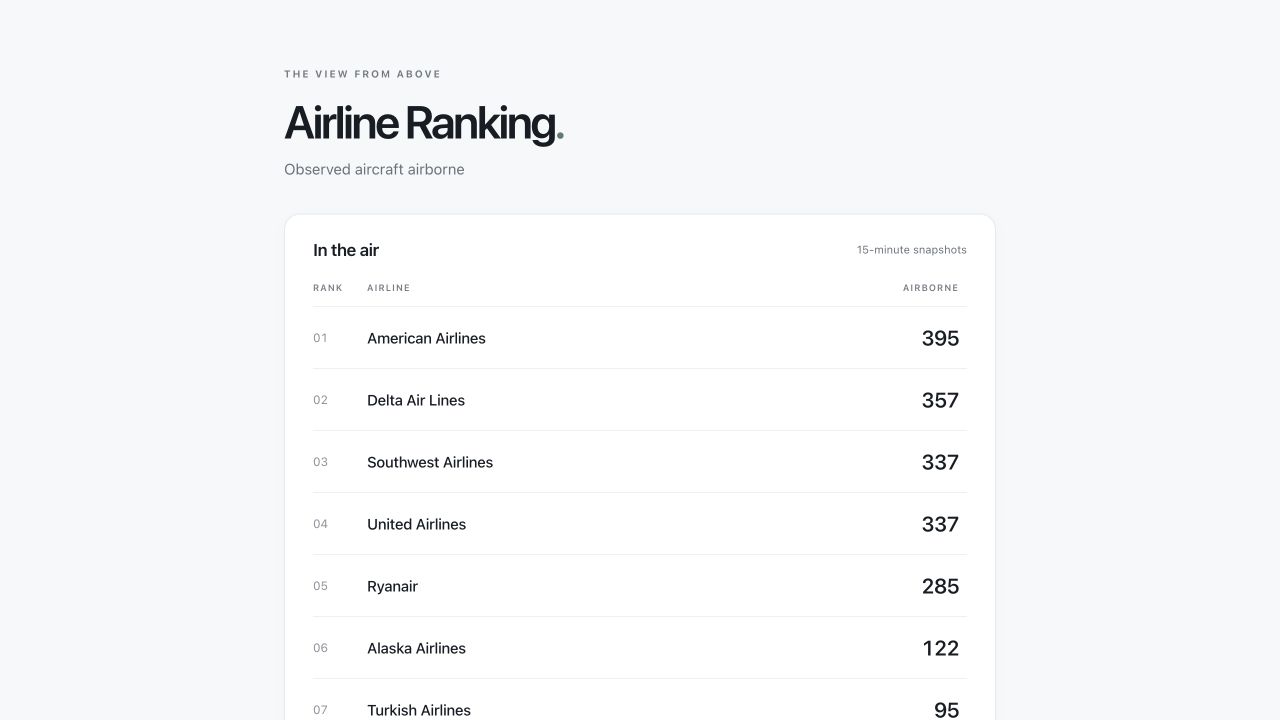
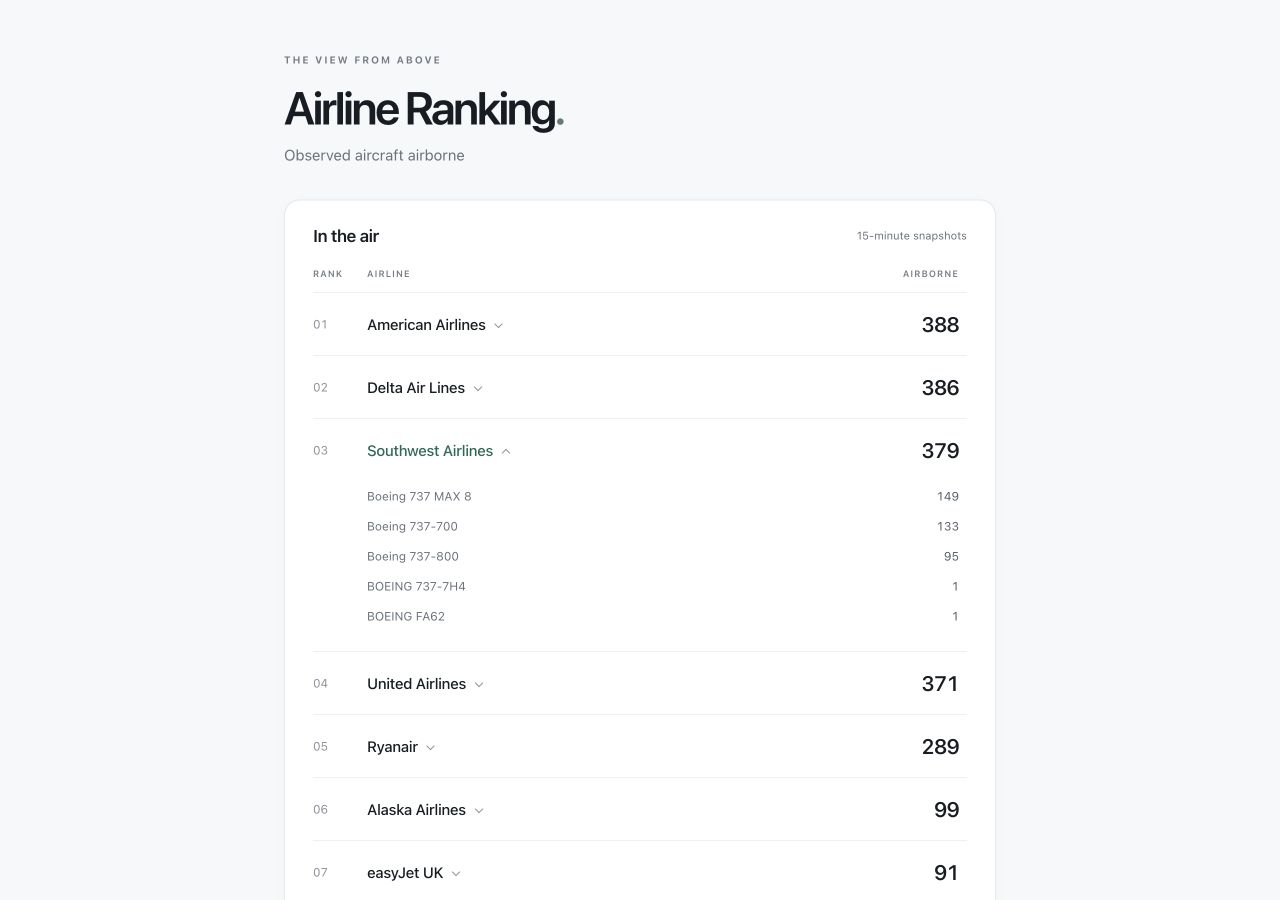
Add expandable aircraft-type breakdowns (#5)
* Add expandable aircraft-type breakdowns

* Update the leaderboard preview with aircraft details

* Prioritize readability in project guidelines

diff --git a/src/styles.css b/src/styles.css
@@ -11,11 +11,11 @@ h1 { font-size: clamp(32px, 6vw, 46px); line-height: 1.12; letter-spacing: -.055
 .board-heading { display: flex; align-items: center; justify-content: space-between; padding: 25px 28px 23px; }
 h2 { margin: 0; font-size: 17px; font-weight: 600; letter-spacing: -.02em; }
 .refresh-label { font-size: 11px; color: #69717c; }
-.column-headings, li { display: grid; grid-template-columns: 54px minmax(0, 1fr) 100px; align-items: center; }
+.column-headings, .airline-toggle { display: grid; grid-template-columns: 54px minmax(0, 1fr) 100px; align-items: center; }
 .column-headings { padding: 0 28px 13px; color: #777e87; font-size: 9px; letter-spacing: .11em; font-weight: 600; }
 .column-headings > :last-child { text-align: right; padding-right: 8px; }
 ol { list-style: none; padding: 0 28px; margin: 0; }
-li { position: relative; min-height: 62px; border-top: 1px solid #eef0f2; background: white; }
+li { position: relative; border-top: 1px solid #eef0f2; background: white; }
 .rank { color: #8a919a; font-size: 12px; font-variant-numeric: tabular-nums; }
 .airline-name { font-size: 15px; font-weight: 500; letter-spacing: -.015em; padding: 12px 8px 12px 0; }
 .count { justify-self: end; font-size: 21px; line-height: 1.5; font-weight: 550; letter-spacing: -.025em; font-variant-numeric: tabular-nums; padding: 2px 8px; border-radius: 5px; }
@@ -31,8 +31,31 @@ time { color: #535b65; }
   .board-heading { padding: 21px 17px; }
   .column-headings { padding: 0 17px 12px; }
   ol { padding: 0 17px; }
-  .column-headings, li { grid-template-columns: 36px minmax(0, 1fr) 76px; }
+  .column-headings, .airline-toggle { grid-template-columns: 36px minmax(0, 1fr) 76px; }
   .airline-name { font-size: 13px; }
   .count { font-size: 19px; }
   .board-footer { padding: 15px 17px; flex-wrap: wrap; }
+}
+
+.airline-toggle { width: 100%; min-height: 62px; padding: 0; border: 0; background: transparent; color: inherit; font: inherit; text-align: left; cursor: pointer; }
+.airline-toggle:hover .airline-name { color: #176957; }
+.airline-toggle:focus-visible { outline: 2px solid #617a70; outline-offset: 2px; border-radius: 4px; }
+.chevron { display: inline-block; width: 6px; height: 6px; margin: 0 0 3px 10px; border-right: 1px solid #8a919a; border-bottom: 1px solid #8a919a; transform: rotate(45deg); transition: transform 180ms ease; }
+[aria-expanded="true"] .chevron { transform: rotate(225deg); margin-bottom: 0; }
+.aircraft-details { display: grid; grid-template-rows: 1fr; }
+.details-content { min-height: 0; overflow: hidden; }
+.aircraft-details dl { margin: 0 8px 20px 54px; }
+.aircraft-type { display: grid; grid-template-columns: minmax(0, 1fr) auto; gap: 16px; padding: 6px 0; color: #69717c; font-size: 12px; line-height: 1.5; }
+.aircraft-type dt { overflow-wrap: anywhere; }
+.aircraft-type dd { margin: 0; font-variant-numeric: tabular-nums; color: #535b65; }
+.no-aircraft { margin: 0 8px 20px 54px; color: #69717c; font-size: 12px; line-height: 1.5; }
+.details-enter { animation: reveal-details 200ms ease-out; }
+.details-leave { animation: reveal-details 200ms ease-in reverse; }
+@keyframes reveal-details { from { grid-template-rows: 0fr; opacity: 0; } to { grid-template-rows: 1fr; opacity: 1; } }
+@media (max-width: 480px) {
+  .aircraft-details dl, .no-aircraft { margin-left: 36px; }
+}
+@media (prefers-reduced-motion: reduce) {
+  .chevron { transition: none; }
+  .details-enter, .details-leave { animation: none; }
 }

diff --git a/backend/skylink.ts b/backend/skylink.ts
@@ -1,4 +1,5 @@
 import type { Snapshot } from '../shared/ranking.ts';
+import { aircraftTypeName } from './aircraft-types.ts';
 import { airlines } from './airlines.ts';
 
 export const REFRESH_INTERVAL_MS = 15 * 60 * 1000;
@@ -29,7 +30,7 @@ export function countAircraft(payload: unknown, now = Date.now()): Snapshot {
     throw new Error('SkyLink snapshot is not current');
   }
 
-  const observations = new Map<string, { seen: number; callsign: string; isAirborne: boolean }>();
+  const observations = new Map<string, { seen: number; callsign: string; isAirborne: boolean; aircraftType: unknown }>();
   for (const record of payload['aircraft'] as unknown[]) {
     if (!isRecord(record) || typeof record['icao24'] !== 'string' || !/^[\da-f]{6}$/i.test(record['icao24'])) {
       throw new Error('Invalid SkyLink aircraft identifier');
@@ -40,19 +41,26 @@ export function countAircraft(payload: unknown, now = Date.now()): Snapshot {
     const isAirborne = record['is_on_ground'] === false;
     const previous = observations.get(id);
     if (!previous || seen > previous.seen || (seen === previous.seen && !isAirborne)) {
-      observations.set(id, { seen, callsign, isAirborne });
+      observations.set(id, { seen, callsign, isAirborne, aircraftType: record['aircraft_type'] });
     }
   }
 
-  const counts = new Map<string, number>();
-  for (const { seen, callsign, isAirborne } of observations.values()) {
+  const counts = new Map<string, Map<string, number>>();
+  for (const { seen, callsign, isAirborne, aircraftType } of observations.values()) {
     if (!isAirborne || seen > snapshotTime || snapshotTime - seen > OBSERVATION_MAX_AGE_MS) { continue; }
     const prefix = /^[A-Z]{3}[A-Z\d]+$/.test(callsign) ? callsign.slice(0, 3) : '';
-    counts.set(prefix, (counts.get(prefix) ?? 0) + 1);
+    const types = counts.get(prefix) ?? new Map<string, number>();
+    const name = aircraftTypeName(aircraftType);
+    types.set(name, (types.get(name) ?? 0) + 1);
+    counts.set(prefix, types);
   }
   return {
     updatedAt: new Date(snapshotTime).toISOString(),
-    airlines: airlines.map(({ id, name, prefix }) => ({ id, name, count: counts.get(prefix) ?? 0 })),
+    airlines: airlines.map(({ id, name, prefix }) => {
+      const aircraftTypes = Array.from(counts.get(prefix) ?? [], ([name, count]) => ({ name, count }))
+        .sort((a, b) => b.count - a.count || a.name.localeCompare(b.name, 'en'));
+      return { id, name, count: aircraftTypes.reduce((total, type) => total + type.count, 0), aircraftTypes };
+    }),
     isStale: false,
   };
 }

diff --git a/backend/aircraft-types.ts b/backend/aircraft-types.ts
@@ -1,0 +1,69 @@
+// Common designators present in the saved SkyLink snapshot, checked against:
+// https://www.faa.gov/air_traffic/publications/atpubs/foa_html/appendix_3.html
+// Preserve variants where a designator covers more than one model.
+const names = new Map<string, string>(Object.entries({
+  A20N: 'Airbus A320neo',
+  A21N: 'Airbus A321neo',
+  A310: 'Airbus A310',
+  A318: 'Airbus A318',
+  A319: 'Airbus A319',
+  A320: 'Airbus A320',
+  A321: 'Airbus A321',
+  A332: 'Airbus A330-200',
+  A333: 'Airbus A330-300',
+  A339: 'Airbus A330-900',
+  A343: 'Airbus A340-300',
+  A346: 'Airbus A340-600',
+  A359: 'Airbus A350-900',
+  A35K: 'Airbus A350-1000',
+  A388: 'Airbus A380-800',
+  AT73: 'ATR 72-211 / 212',
+  AT75: 'ATR 72-500',
+  AT76: 'ATR 72-600',
+  B38M: 'Boeing 737 MAX 8',
+  B39M: 'Boeing 737 MAX 9',
+  B712: 'Boeing 717-200',
+  B733: 'Boeing 737-300',
+  B736: 'Boeing 737-600',
+  B737: 'Boeing 737-700',
+  B738: 'Boeing 737-800',
+  B739: 'Boeing 737-900',
+  B744: 'Boeing 747-400',
+  B748: 'Boeing 747-8',
+  B752: 'Boeing 757-200',
+  B753: 'Boeing 757-300',
+  B763: 'Boeing 767-300',
+  B764: 'Boeing 767-400',
+  B772: 'Boeing 777-200 / 200ER',
+  B77L: 'Boeing 777-200LR / Freighter',
+  B77W: 'Boeing 777-300ER',
+  B788: 'Boeing 787-8',
+  B789: 'Boeing 787-9',
+  B78X: 'Boeing 787-10',
+  BCS1: 'Airbus A220-100',
+  BCS3: 'Airbus A220-300',
+  CRJ9: 'Bombardier CRJ705 / CRJ900',
+  DH8D: 'De Havilland Dash 8-400',
+  E190: 'Embraer E190 / Lineage 1000',
+  E195: 'Embraer E195',
+  E290: 'Embraer E190-E2',
+  E295: 'Embraer E195-E2',
+  E75L: 'Embraer E175 (long wing)',
+  F100: 'Fokker 100',
+}));
+
+// Exact model labels observed in the payload and confirmed by the same FAA table.
+const aliases = new Map([
+  ['BOEING 737-8', 'B38M'],
+  ['BOEING 737-9', 'B39M'],
+  ['BOEING 737-800', 'B738'],
+  ['BOEING 787-9', 'B789'],
+  ['EMBRAER ERJ 190-400', 'E295'],
+]);
+
+export function aircraftTypeName(value: unknown): string {
+  if (typeof value !== 'string' || !value.trim()) { return 'Unknown type'; }
+  const label = value.trim().replace(/\s+/g, ' ').toUpperCase();
+  const code = aliases.get(label) ?? label.split(' ').at(-1) ?? '';
+  return names.get(code) ?? label;
+}

diff --git a/src/app.html b/src/app.html
@@ -17,11 +17,30 @@
       <ol>
         @for (airline of rows(); track airline.id; let rank = $index) {
           <li #row [attr.data-id]="airline.id">
-            <span class="rank" aria-hidden="true">{{ rank + 1 | number: '2.0-0' }}</span>
-            <span class="airline-name">{{ airline.name }}</span>
-            <span class="count" [attr.aria-label]="airline.count + ' aircraft airborne'">
-              <span aria-hidden="true">{{ displayedCounts()[airline.id] | number }}</span>
-            </span>
+            <button class="airline-toggle" type="button" (click)="toggleAirline(airline)"
+              [attr.aria-expanded]="expandedAirlineId() === airline.id"
+              [attr.aria-controls]="'types-' + airline.id">
+              <span class="rank" aria-hidden="true">{{ rank + 1 | number: '2.0-0' }}</span>
+              <span class="airline-name">{{ airline.name }}<span class="chevron" aria-hidden="true"></span></span>
+              <span class="count" [attr.aria-label]="airline.count + ' aircraft airborne'">
+                <span aria-hidden="true">{{ (expandedAirlineId() === airline.id ? airline.count : displayedCounts()[airline.id]) | number }}</span>
+              </span>
+            </button>
+            @if (expandedAirlineId() === airline.id) {
+              <div class="aircraft-details" [id]="'types-' + airline.id" animate.enter="details-enter" animate.leave="details-leave">
+                <div class="details-content">
+                  @if (airline.count === 0) {
+                    <p class="no-aircraft">No aircraft currently observed airborne.</p>
+                  } @else {
+                    <dl aria-label="Aircraft types">
+                      @for (type of airline.aircraftTypes; track type.name) {
+                        <div class="aircraft-type"><dt>{{ type.name }}</dt><dd>{{ type.count | number }}</dd></div>
+                      }
+                    </dl>
+                  }
+                </div>
+              </div>
+            }
           </li>
         }
       </ol>

diff --git a/src/app.ts b/src/app.ts
@@ -24,6 +24,15 @@ export class AppComponent implements OnInit, OnDestroy {
   readonly rows = signal<Airline[]>([]);
   readonly displayedCounts = signal<Record<string, number>>({});
   readonly announcement = signal('');
+  readonly expandedAirlineId = signal<string | null>(null);
+  private readonly immediateCountIds = new Set<string>();
+
+  toggleAirline(airline: Airline): void {
+    const isExpanded = this.expandedAirlineId() === airline.id;
+    this.expandedAirlineId.set(isExpanded ? null : airline.id);
+    this.immediateCountIds.add(airline.id);
+    this.displayedCounts.update(counts => ({ ...counts, [airline.id]: airline.count }));
+  }
 
   ngOnInit(): void {
     void this.loadRanking();
@@ -62,6 +71,9 @@ export class AppComponent implements OnInit, OnDestroy {
       this.displayedCounts.set(this.counts(snapshot));
       return;
     }
+    this.immediateCountIds.clear();
+    const expandedId = this.expandedAirlineId();
+    if (expandedId) { this.immediateCountIds.add(expandedId); }
     const previous = this.displayedCounts();
     const positions = new Map(this.rowElements.map(({ nativeElement: row }) => [row.dataset['id'], row.getBoundingClientRect().top]));
     this.animations.forEach(animation => { animation.cancel(); });
@@ -101,7 +113,7 @@ export class AppComponent implements OnInit, OnDestroy {
       const eased = 1 - Math.pow(1 - progress, 3);
       this.displayedCounts.set(Object.fromEntries(snapshot.airlines.map(airline => {
         const from = previous[airline.id] ?? airline.count;
-        return [airline.id, Math.round(from + (airline.count - from) * eased)];
+        return [airline.id, this.immediateCountIds.has(airline.id) ? airline.count : Math.round(from + (airline.count - from) * eased)];
       })));
       if (progress < 1) {this.frame = requestAnimationFrame(tick);}
     };

diff --git a/shared/ranking.ts b/shared/ranking.ts
@@ -2,6 +2,7 @@ export interface Airline {
   id: string;
   name: string;
   count: number;
+  aircraftTypes: { name: string; count: number }[];
 }
 
 export interface Snapshot {

diff --git a/AGENTS.md b/AGENTS.md
@@ -5,6 +5,7 @@ Keep this project small and simple. Add only what is absolutely necessary for th
 - Do not build for hypothetical future requirements.
 - Do not add speculative features, dependencies, abstractions, infrastructure, documentation, or tooling.
 - Prefer the simplest implementation that meets the current requirements.
+- Prioritize readability over brevity. Use clear names and intermediate variables when they make logic easier to follow; avoid dense expressions and unnecessary verbosity.
 - Reuse existing code where appropriate. Add dependencies or abstractions only when the current change has a concrete need for them.
 - Keep changes focused; avoid unrelated refactoring, duplicate logic, and configuration for hypothetical use cases.
 - Name project-owned boolean variables, parameters, and properties with an `is` prefix and a descriptive condition, such as `isAirborne` or `isStale`. Preserve names required by external APIs and libraries.
@@ -31,6 +32,7 @@ Keep this project small and simple. Add only what is absolutely necessary for th
 
 - Compare the complete diff against the agreed requirements and inspect relevant surrounding code.
 - Trace important behavior from input to output, including boundary conditions, external input validation, and failure handling.
+- Check that the code is easy to follow, and suggest simpler expressions or clearer names where they help.
 - Check that each new dependency, abstraction, configuration option, and file serves a current requirement. Flag concrete duplication or unnecessary complexity, and suggest the smallest sufficient alternative.
 - Check that tests verify observable behavior and meaningful failure cases. Flag unjustified changes that weaken tests, linting, or CI.
 - Report actionable findings with file locations, impact, and supporting evidence or a reproducible scenario. Distinguish blocking issues from optional suggestions; avoid speculative requirements and stylistic preferences already handled by tooling.

diff --git a/README.md b/README.md
@@ -34,6 +34,10 @@ Open http://127.0.0.1:4200. Both services listen on loopback only. Angular proxi
 
 The browser checks the cache every minute. Row changes and counts animate briefly; reduced-motion preferences disable animation. If an update fails, the last successful ranking and its original timestamp remain visible with a delay notice. Before the first successful snapshot, the UI shows an unavailable message and retries automatically.
 
+Click an airline to expand its aircraft-type breakdown; only one row is expanded at a time. The same cached snapshot supplies both the total and its breakdown, without extra provider requests. The expanded airline stays open when the ranking changes, and its total updates immediately with its breakdown. Other totals retain their brief count animation.
+
+Aircraft types come from SkyLink's `aircraft_type` field. Common ICAO designators and a few exact model aliases are normalized using the [FAA type table](https://www.faa.gov/air_traffic/publications/atpubs/foa_html/appendix_3.html), with labels in `backend/aircraft-types.ts`. Distinct variants remain separate. Unrecognized labels retain the provider wording with normalized whitespace and capitalization; missing or invalid values become “Unknown type”. Metadata can be incomplete or incorrect, and unfamiliar aliases may remain separate. Breakdown counts always sum to the airline total.
+
 One continuously running backend makes approximately 96 provider requests per day. Every restart adds an immediate request; opening more browser tabs does not trigger more provider requests. Failed requests are retried at the next scheduled refresh.
 
 ## Checks
